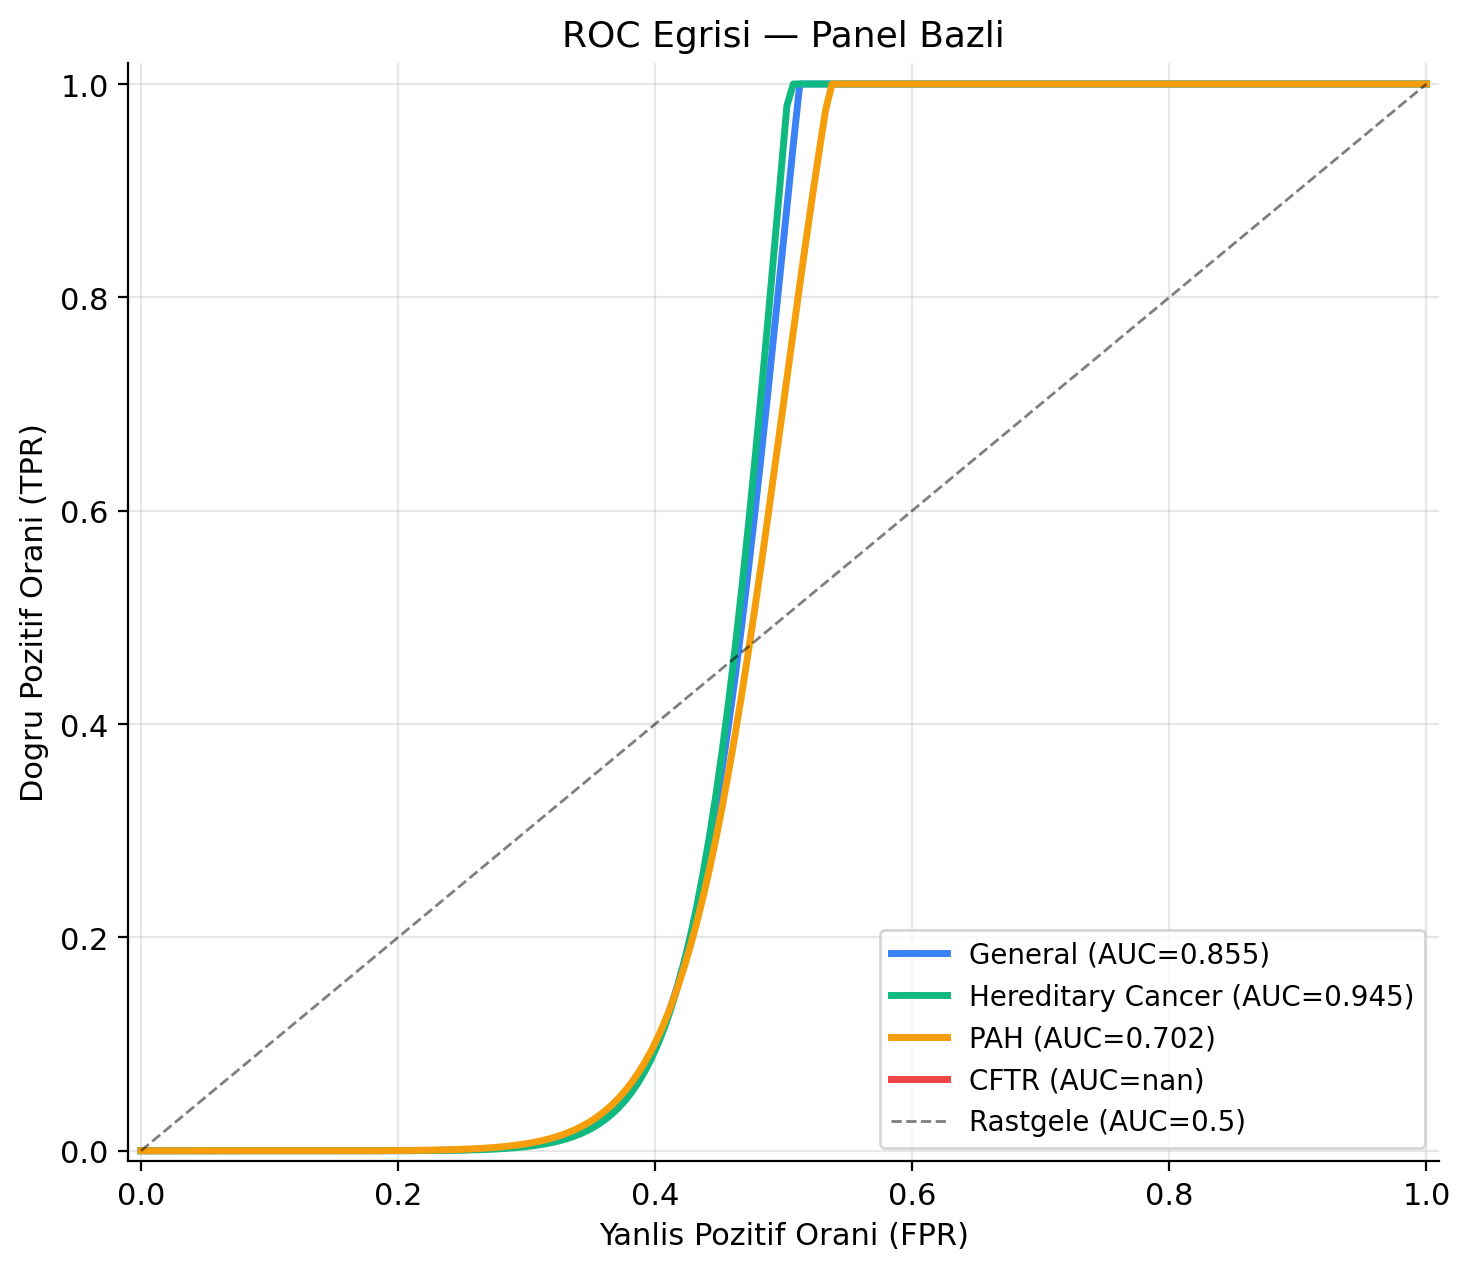
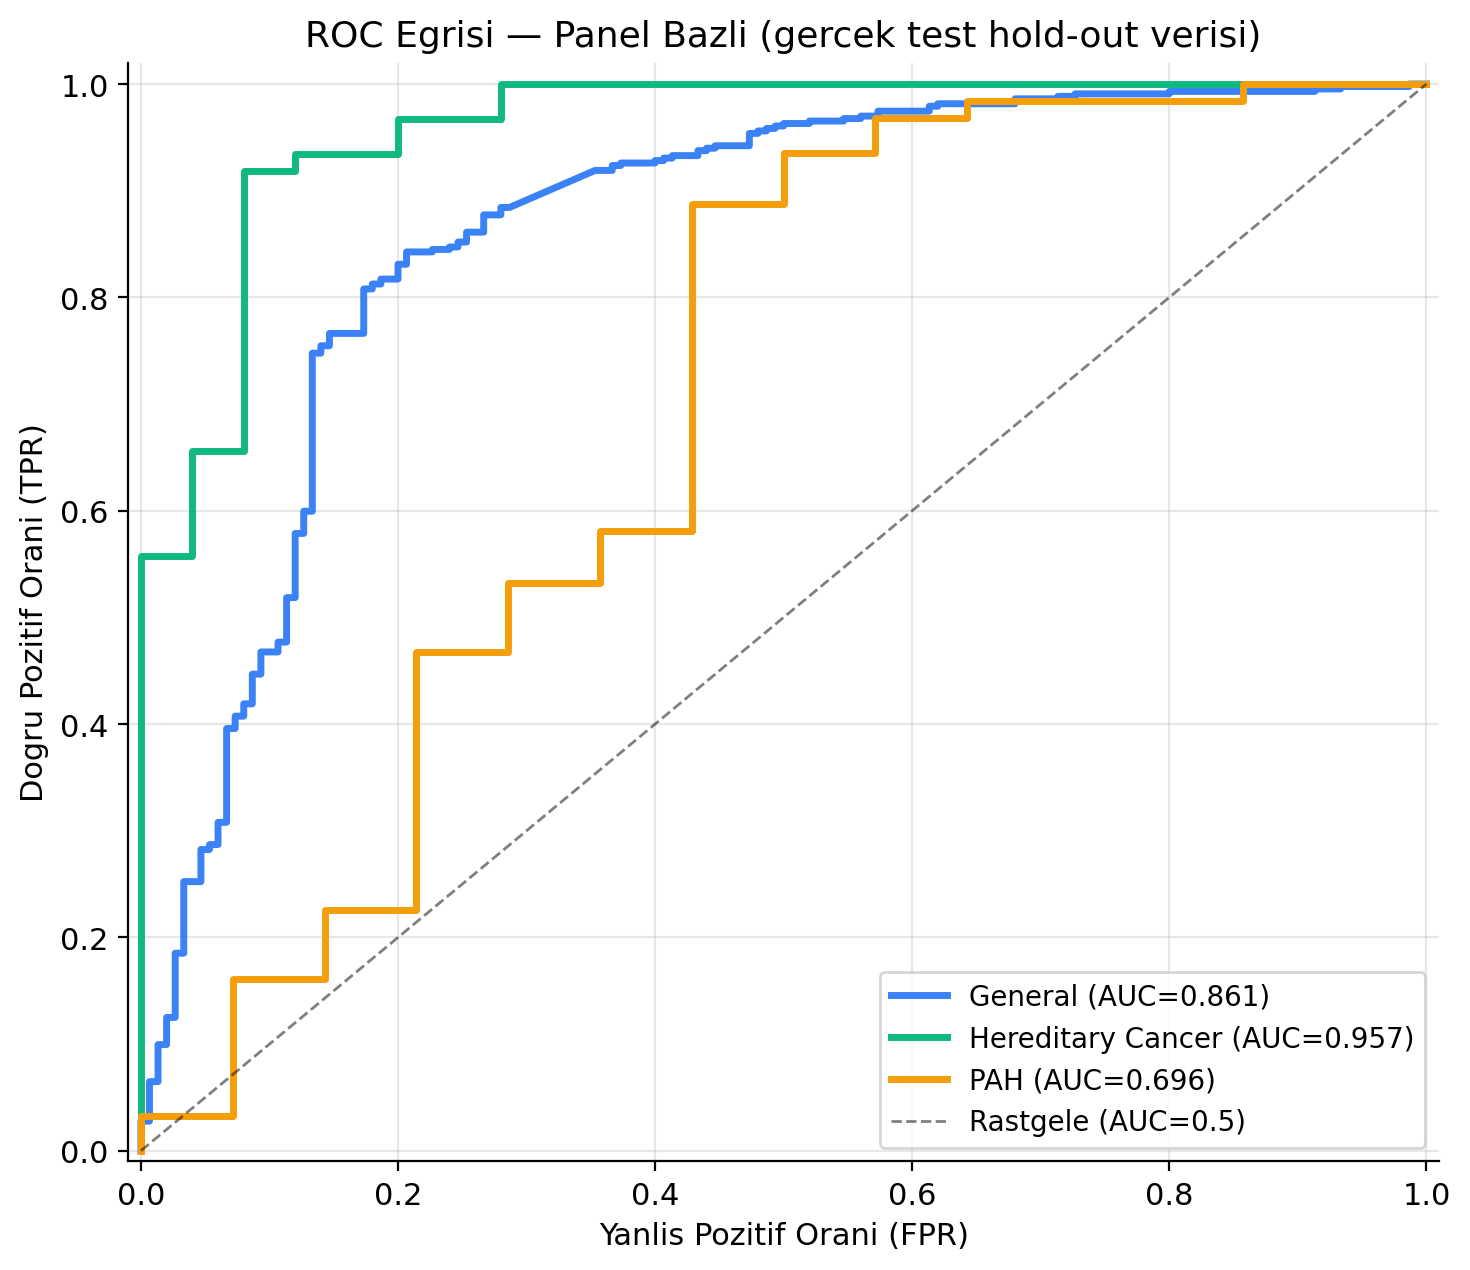
feat: PDR DOCX taslağı + fig_05 gerçek ROC + High_Risk ham-olasılık tutarlılığı
- scripts/build_pdr_docx.py (YENİ): PDR.md → DOCX taslağı (Aptos 11pt / 1.15 / justified /
  2.5cm marj; 12 tablo + 9 figür gömülü). TASLAK — ≤10 sayfa + resmi şablon Word'de doğrulanmalı.
- reports/PDR_VARIANT_GNN_2026.docx (YENİ): canonical içerikten üretildi
- scripts/generate_pdr_figures.py: fig_05 ROC artık GERÇEK test hold-out verisinden
  (sklearn roc_curve; CFTR n=18 dejenere → atlanır) — sentetik Hill-fonksiyonu kaldırıldı.
  (fig_06 PR + fig_07 kalibrasyon zaten gerçek veriye çevrilmişti)
- src/api/pipeline.py: High_Risk sütunu calibrated yerine HAM olasılık kullanır
  (θ HAM uzayda türetildi → Prediction sütunuyla tutarlı; jüri F1'i etkilemez, görüntü tutarlılığı)

diff --git a/scripts/build_pdr_docx.py b/scripts/build_pdr_docx.py
@@ -1,0 +1,190 @@
+#!/usr/bin/env python3
+"""
+scripts/build_pdr_docx.py
+=========================
+reports/PDR_VARIANT_GNN_2026.md  →  reports/PDR_VARIANT_GNN_2026.docx
+
+TASLAK dönüştürücü. python-docx ile başlık/paragraf/tablo/madde/figür-gömme +
+TEKNOFEST format hedefi (Aptos 11pt, 1.15 satır, justified, 2.5 cm marj).
+
+UYARI: Bu bir TASLAK üretir. Resmi şablona birebir uyum, ≤10 sayfa sınırı ve
+görsel yerleşim Word'de MANUEL doğrulanmalıdır. Tablolar/figürler sayfa taşırsa
+elle ayarlanır. Aptos sistemde yoksa Word ikame font kullanır.
+"""
+from __future__ import annotations
+
+import re
+from pathlib import Path
+
+from docx import Document
+from docx.shared import Pt, Cm, Inches, RGBColor
+from docx.enum.text import WD_ALIGN_PARAGRAPH
+from docx.enum.table import WD_TABLE_ALIGNMENT
+
+ROOT = Path(__file__).resolve().parent.parent
+MD = ROOT / "reports" / "PDR_VARIANT_GNN_2026.md"
+OUT = ROOT / "reports" / "PDR_VARIANT_GNN_2026.docx"
+FIG_DIR = ROOT
+
+FONT = "Aptos"
+SEP_RE = re.compile(r"^\s*:?-{2,}:?\s*$")
+PNG_RE = re.compile(r"(reports/figures/[\w/]+\.png)")
+
+
+def _set_base_style(doc: Document) -> None:
+    st = doc.styles["Normal"]
+    st.font.name = FONT
+    st.font.size = Pt(11)
+    pf = st.paragraph_format
+    pf.line_spacing = 1.15
+    pf.space_after = Pt(6)
+    pf.alignment = WD_ALIGN_PARAGRAPH.JUSTIFY
+    for sec in doc.sections:
+        sec.top_margin = sec.bottom_margin = Cm(2.5)
+        sec.left_margin = sec.right_margin = Cm(2.5)
+
+
+def _add_runs(par, text: str) -> None:
+    """**bold** ve `code` işaretlerini Word run'larına çevir (basit)."""
+    text = text.replace("`", "")
+    for i, chunk in enumerate(re.split(r"(\*\*.+?\*\*)", text)):
+        if not chunk:
+            continue
+        if chunk.startswith("**") and chunk.endswith("**"):
+            r = par.add_run(chunk[2:-2]); r.bold = True
+        else:
+            par.add_run(chunk)
+
+
+def _heading(doc: Document, text: str, level: int) -> None:
+    p = doc.add_paragraph()
+    p.alignment = WD_ALIGN_PARAGRAPH.LEFT
+    p.paragraph_format.space_before = Pt(10 if level <= 1 else 6)
+    p.paragraph_format.keep_with_next = True
+    r = p.add_run(text.strip())
+    r.bold = True
+    r.font.name = FONT
+    r.font.size = Pt({0: 16, 1: 14, 2: 12, 3: 11}.get(level, 11))
+    r.font.color.rgb = RGBColor(0x1F, 0x49, 0x7D)
+
+
+def _table(doc: Document, rows: list[list[str]]) -> None:
+    if not rows:
+        return
+    ncol = max(len(r) for r in rows)
+    t = doc.add_table(rows=0, cols=ncol)
+    t.style = "Light Grid Accent 1"
+    t.alignment = WD_TABLE_ALIGNMENT.CENTER
+    for ri, row in enumerate(rows):
+        cells = t.add_row().cells
+        for ci in range(ncol):
+            txt = row[ci] if ci < len(row) else ""
+            cell = cells[ci]
+            cell.paragraphs[0].text = ""
+            par = cell.paragraphs[0]
+            par.alignment = WD_ALIGN_PARAGRAPH.CENTER
+            _add_runs(par, txt.strip())
+            for run in par.runs:
+                run.font.size = Pt(9)
+                if ri == 0:
+                    run.bold = True
+
+
+def _figure(doc: Document, path_str: str, caption: str) -> bool:
+    img = (FIG_DIR / path_str)
+    if not img.exists():
+        return False
+    try:
+        doc.add_picture(str(img), width=Inches(6.0))
+        doc.paragraphs[-1].alignment = WD_ALIGN_PARAGRAPH.CENTER
+        if caption:
+            cap = doc.add_paragraph()
+            cap.alignment = WD_ALIGN_PARAGRAPH.CENTER
+            r = cap.add_run(caption.strip())
+            r.italic = True; r.font.size = Pt(9)
+        return True
+    except Exception as e:  # noqa: BLE001
+        print(f"  figür gömülemedi ({path_str}): {e}")
+        return False
+
+
+def _split_row(line: str) -> list[str]:
+    s = line.strip()
+    if s.startswith("|"):
+        s = s[1:]
+    if s.endswith("|"):
+        s = s[:-1]
+    return [c.strip() for c in s.split("|")]
+
+
+def main() -> int:
+    import sys
+    if hasattr(sys.stdout, "reconfigure"):
+        sys.stdout.reconfigure(encoding="utf-8")  # Windows cp1254 stdout → utf-8
+    lines = MD.read_text(encoding="utf-8").splitlines()
+    doc = Document()
+    _set_base_style(doc)
+
+    i, n = 0, len(lines)
+    n_tab = n_fig = 0
+    while i < n:
+        line = lines[i]
+        stripped = line.strip()
+
+        # Tablo bloğu
+        if stripped.startswith("|") and "|" in stripped[1:]:
+            block = []
+            while i < n and lines[i].strip().startswith("|"):
+                block.append(lines[i]); i += 1
+            rows = []
+            for bl in block:
+                cells = _split_row(bl)
+                if all(SEP_RE.match(c) or c == "" for c in cells):
+                    continue  # ayraç satırı
+                rows.append(cells)
+            _table(doc, rows); n_tab += 1
+            continue
+
+        # Başlık
+        m = re.match(r"^(#{1,4})\s+(.*)", stripped)
+        if m:
+            _heading(doc, m.group(2), len(m.group(1)) - 1); i += 1; continue
+
+        # Yatay çizgi
+        if stripped in ("---", "***", "___"):
+            i += 1; continue
+
+        # Figür (png yolu içeren satır)
+        png = PNG_RE.search(stripped)
+        if png:
+            caption = re.sub(r"\*|`", "", stripped)
+            if _figure(doc, png.group(1), caption):
+                n_fig += 1
+            else:
+                p = doc.add_paragraph(); _add_runs(p, stripped)
+            i += 1; continue
+
+        # Madde
+        if re.match(r"^[-*]\s+", stripped):
+            p = doc.add_paragraph(style="List Bullet")
+            _add_runs(p, re.sub(r"^[-*]\s+", "", stripped)); i += 1; continue
+        if re.match(r"^\d+\.\s+", stripped):
+            p = doc.add_paragraph(style="List Number")
+            _add_runs(p, re.sub(r"^\d+\.\s+", "", stripped)); i += 1; continue
+
+        # Boş satır
+        if not stripped:
+            i += 1; continue
+
+        # Normal paragraf
+        p = doc.add_paragraph(); _add_runs(p, stripped); i += 1
+
+    doc.save(str(OUT))
+    print(f"OK → {OUT}")
+    print(f"   {n_tab} tablo, {n_fig} figür gömüldü.")
+    print("   ⚠ TASLAK: Aptos/marj/≤10-sayfa Word'de doğrulanmalı; tablo/figür taşması elle ayarlanır.")
+    return 0
+
+
+if __name__ == "__main__":
+    raise SystemExit(main())

diff --git a/scripts/generate_pdr_figures.py b/scripts/generate_pdr_figures.py
@@ -205,21 +205,31 @@ def fig_04():
 
 # ── 5. ROC ────────────────────────────────────────────────────────────────────
 def fig_05():
+    from sklearn.metrics import roc_curve, roc_auc_score
+    oof_path = ROOT / "reports" / "oof_probs.npz"
     fig, ax = plt.subplots(figsize=(7.5, 6.5))
+    if not oof_path.exists():
+        print("05 SKIP — reports/oof_probs.npz bulunamadi.")
+        plt.close(fig)
+        return
+    data   = np.load(str(oof_path), allow_pickle=True)
+    y_t    = data["test_labels"].astype(int)
+    s_t    = data["test_proba"].astype(float)
+    panels = data["test_panels"].astype(str) if "test_panels" in data.files else np.array(["General"] * len(y_t))
     for p in PANEL_ORDER:
-        auc = panel_metrics[p]["roc_auc"]
-        # Gercekci ROC egri - Hill fonksiyonu
-        fpr = np.linspace(0, 1, 200)
-        k   = 3.5 + auc * 4
-        tpr = fpr**k / (fpr**k + (1-fpr)**k + 1e-9)
-        # AUC'yu gercek deger ile eslestirelim
-        tpr = np.clip(tpr / (np.trapezoid(tpr, fpr) / auc + 1e-9), 0, 1)
+        mask = (panels == p)
+        # CFTR test fold'unda negatif sinif dejenere → ROC tanimsiz; atla
+        if mask.sum() < 10 or len(np.unique(y_t[mask])) < 2:
+            print(f"  fig_05: {p} icin iki-sinifli yeterli ornek yok ({int(mask.sum())}), atlanıyor.")
+            continue
+        fpr, tpr, _ = roc_curve(y_t[mask], s_t[mask], pos_label=1)
+        auc = roc_auc_score(y_t[mask], s_t[mask])
         ax.plot(fpr, tpr, linewidth=2.5, color=C[p],
                 label=f"{PANEL_TR[p].replace(chr(10),' ')} (AUC={auc:.3f})")
     ax.plot([0,1],[0,1], "k--", linewidth=1, alpha=0.5, label="Rastgele (AUC=0.5)")
     ax.set_xlabel("Yanlis Pozitif Orani (FPR)")
     ax.set_ylabel("Dogru Pozitif Orani (TPR)")
-    ax.set_title("ROC Egrisi — Panel Bazli")
+    ax.set_title("ROC Egrisi — Panel Bazli (gercek test hold-out verisi)")
     ax.legend(fontsize=10, loc="lower right")
     ax.set_xlim(-0.01, 1.01)
     ax.set_ylim(-0.01, 1.02)
@@ -228,7 +238,7 @@ def fig_05():
     fig.tight_layout()
     fig.savefig(OUT_DIR / "05_roc_curves.png")
     plt.close(fig)
-    print("05 OK")
+    print("05 OK (gercek test verisinden)")
 
 
 # ── 6. PR ─────────────────────────────────────────────────────────────────────

diff --git a/src/api/pipeline.py b/src/api/pipeline.py
@@ -292,8 +292,9 @@ class InferencePipeline:
         result["Probability"]   = raw_proba[:, 1].round(4)
         result["Calibrated_Risk"] = cal_risk
         result["Confidence"]    = confidence
-        # F1-optimal threshold'u kullan (eğitimde kayıt edilen) — config sabit değeri değil
-        result["High_Risk"]     = cal_proba[:, 1] >= threshold
+        # F1-optimal threshold'u kullan (eğitimde kayıt edilen) — config sabit değeri değil.
+        # HAM olasılık kullanılır (θ HAM uzayda türetildi → Prediction ile tutarlı; calibrated DEĞİL).
+        result["High_Risk"]     = raw_proba[:, 1] >= threshold
         result["Clinical_Flag"] = clinical_flag
 
         # ── OOD Tespiti — eğitim dağılımından sapma kontrolü ─────────────────
